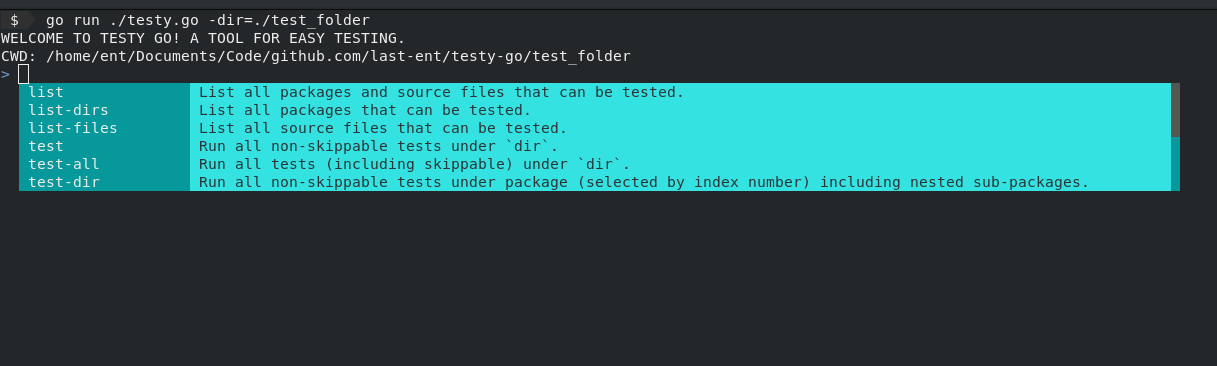
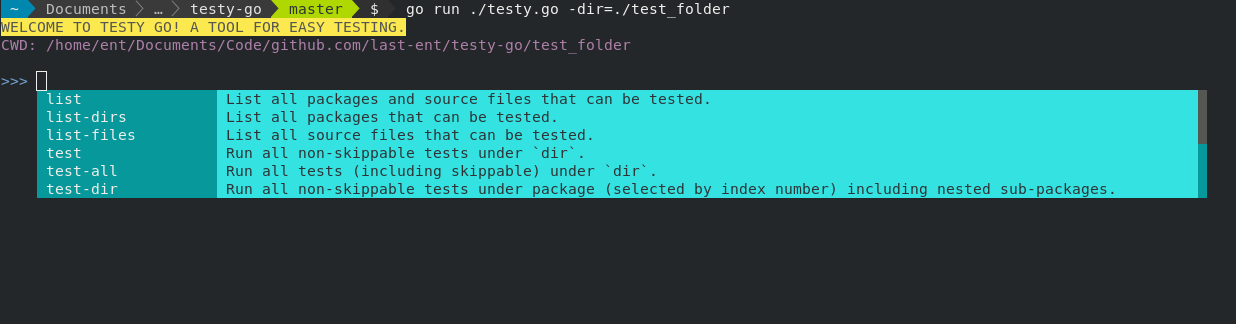
Updating README.md with colorized demo

Changed region(s): [[0.0, 0.0, 0.9992, 0.6173]]

diff --git a/README.md b/README.md
@@ -16,8 +16,8 @@
 * [Demo](#demo)
   * [Commands used in Demo](#commands-used-in-demo)
 
-![sample-screen](testy-1.png)
-![sample-screen](testy-2.png)
+![sample-screen](testy-1.png) ![sample-screen](testy-2.png)
+![sample-screen](testy-3.png) ![sample-screen](testy-4.png)
 
 ## How to Use
 
